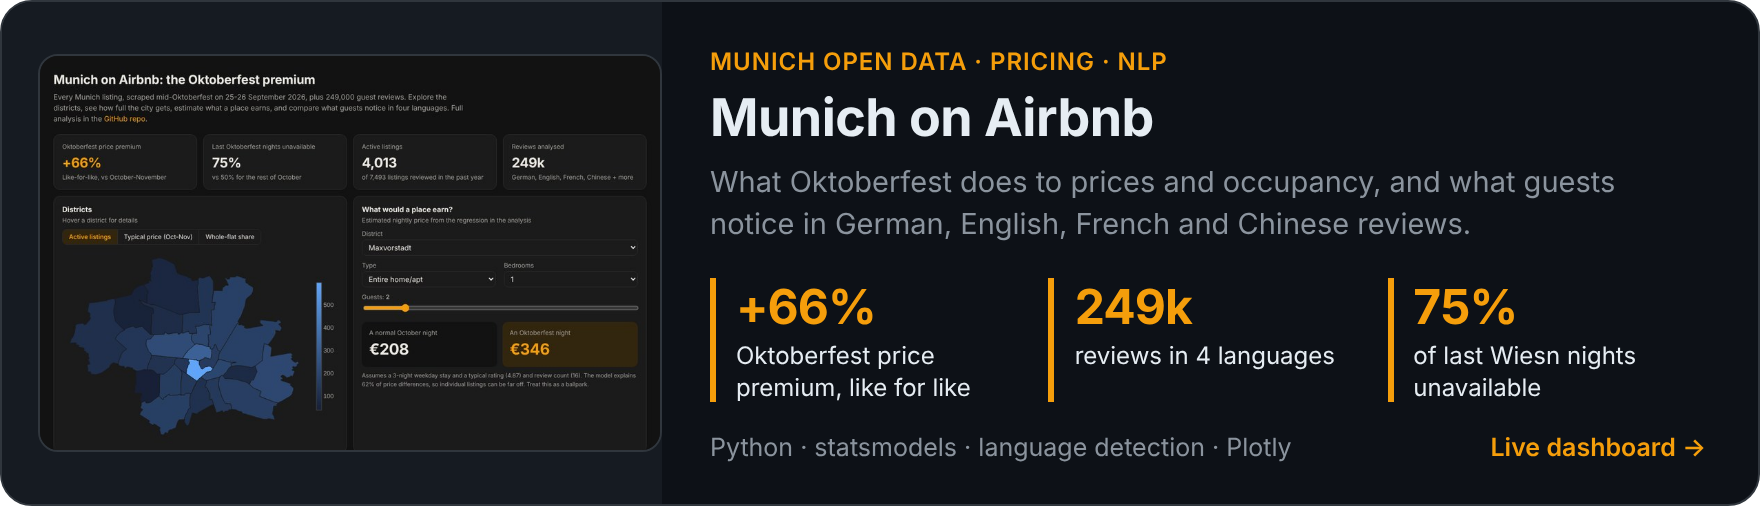
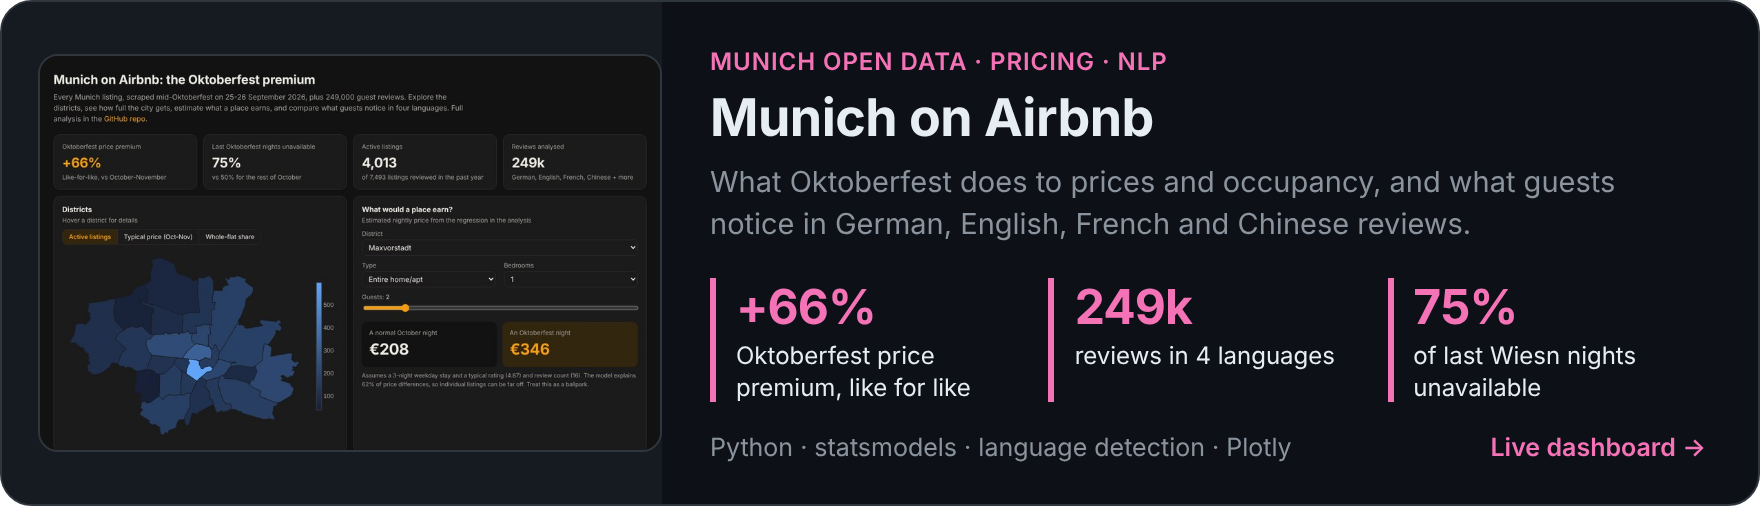
Add The Maß Index project card
Claude-Session: https://claude.ai/code/session_01NzJHf5jFf7KSSbdXqD4akb

diff --git a/assets/build/build_cards.py b/assets/build/build_cards.py
@@ -23,7 +23,15 @@ IMPACT = [
 
 PROJECTS = [
     {
-        "slug": "airbnb", "accent": ("#b45309", "#f59e0b"),
+        "slug": "mass", "accent": ("#b45309", "#fbbf24"),
+        "eyebrow": "Munich open data · Inflation · Economics",
+        "title": "The Maß Index",
+        "text": "40 years of Oktoberfest beer prices against German inflation, wages and the festival menu, with a time machine and a bill builder.",
+        "metrics": [("+85%", "real price rise since 1991"), ("72 min", "of minimum-wage work per Maß"), ("≈2033", "a Maß hits 20 € on the current trend")],
+        "tags": "Python · pandas · price indices · Plotly",
+    },
+    {
+        "slug": "airbnb", "accent": ("#be185d", "#f472b6"),
         "eyebrow": "Munich open data · Pricing · NLP",
         "title": "Munich on Airbnb",
         "text": "What Oktoberfest does to prices and occupancy, and what guests notice in German, English, French and Chinese reviews.",

diff --git a/README.md b/README.md
@@ -19,6 +19,15 @@ Before that I studied finance and economics, then did an MSc in Data Science & A
 
 Each one has a live dashboard you can click around in, and a notebook that walks through the analysis.
 
+<a href="https://hakowxy.github.io/wiesn-mass-index/">
+  <picture>
+    <source media="(prefers-color-scheme: dark)" srcset="assets/cards/mass-dark.png" />
+    <img src="assets/cards/mass-light.png" width="100%" alt="The Maß Index: Oktoberfest beer prices vs inflation, +85% real price rise since 1991" />
+  </picture>
+</a>
+
+[Live dashboard](https://hakowxy.github.io/wiesn-mass-index/) · [Code & analysis](https://github.com/hakowxy/wiesn-mass-index)
+
 <a href="https://hakowxy.github.io/munich-airbnb/">
   <picture>
     <source media="(prefers-color-scheme: dark)" srcset="assets/cards/airbnb-dark.png" />
